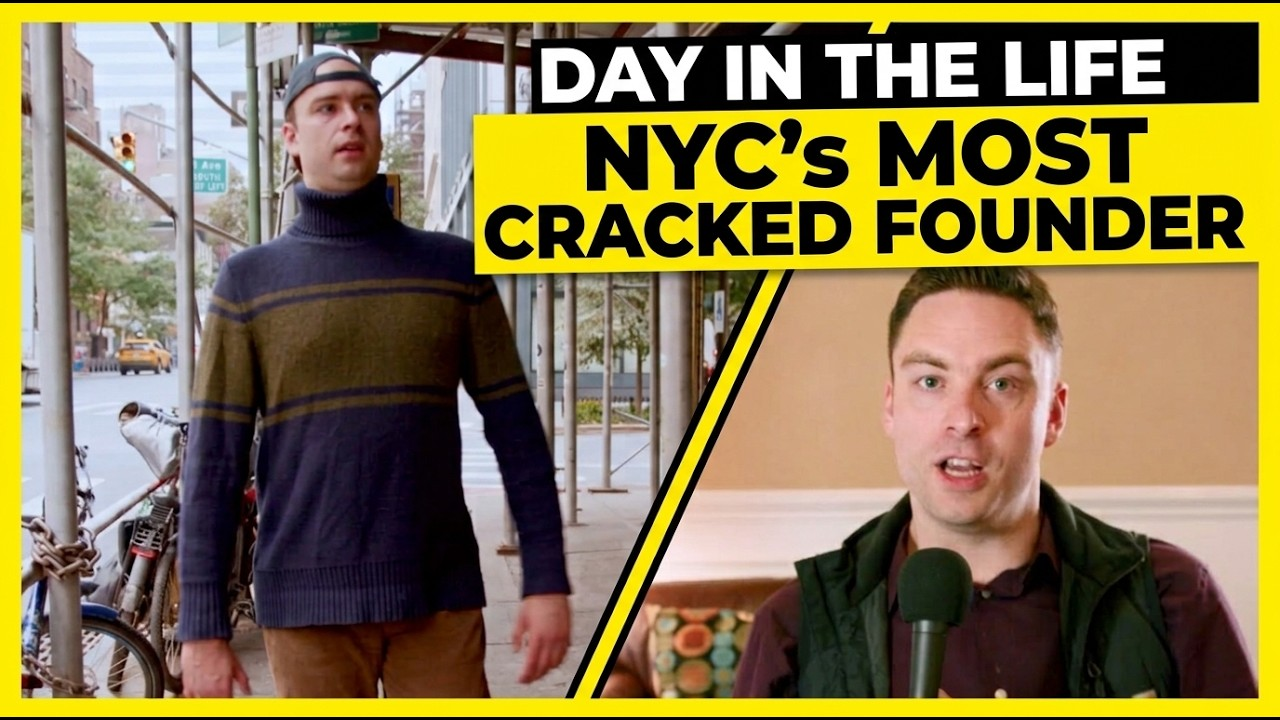
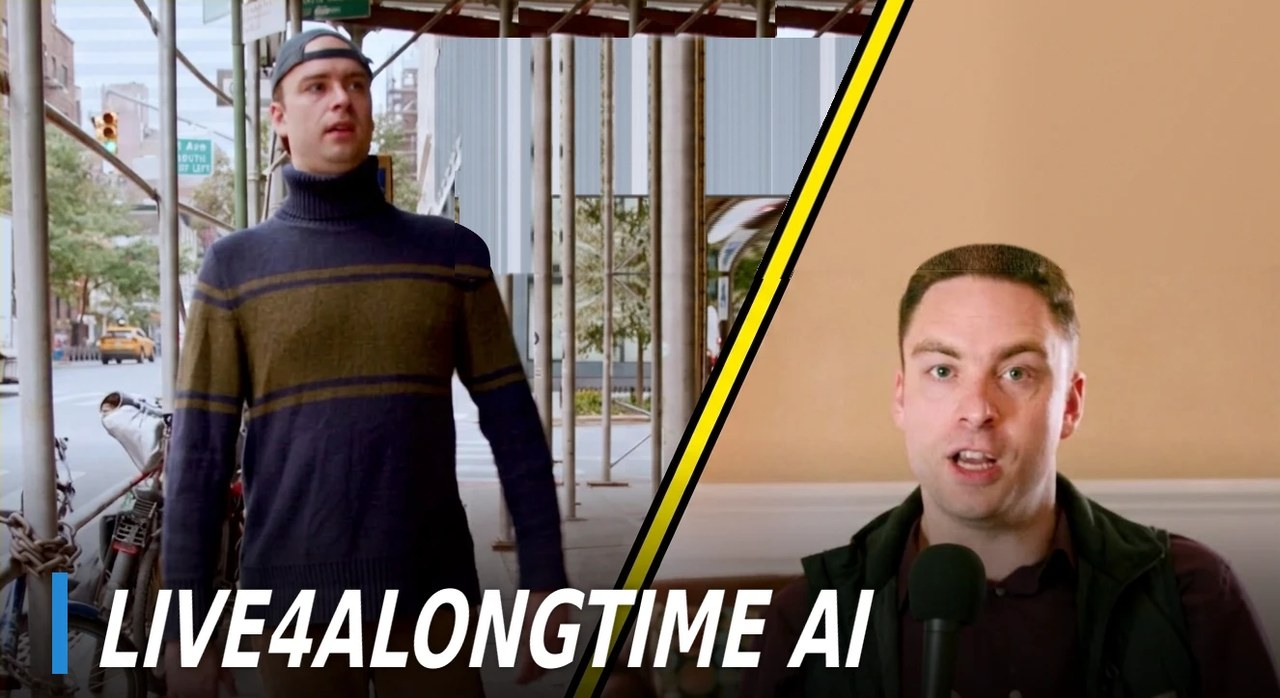
New thumbnails for Gemini Panic, Live4ALongTime AI and Connection Pending
Use the supplied finished thumbnails and hide the duplicate card captions
for these three cards (still available to screen readers).

Claude-Session: https://claude.ai/code/session_014y4GfGcAkkGKmsdvDjjrz4

diff --git a/index.html b/index.html
@@ -79,7 +79,7 @@
             <h3 class="card-name">Gemini Panic</h3>
           </div>
         </div>
-        <div class="card" data-yt="PoY37Xwj0vw" data-title="Live4ALongTime AI" role="button" tabindex="0" aria-label="Play Live4ALongTime AI">
+        <div class="card card--titled" data-yt="PoY37Xwj0vw" data-title="Live4ALongTime AI" role="button" tabindex="0" aria-label="Play Live4ALongTime AI">
           <div class="card-art">
             <img src="/assets/images/live4alongtime-thumb.jpg" alt="" loading="lazy">
             <span class="card-play" aria-hidden="true"></span>
